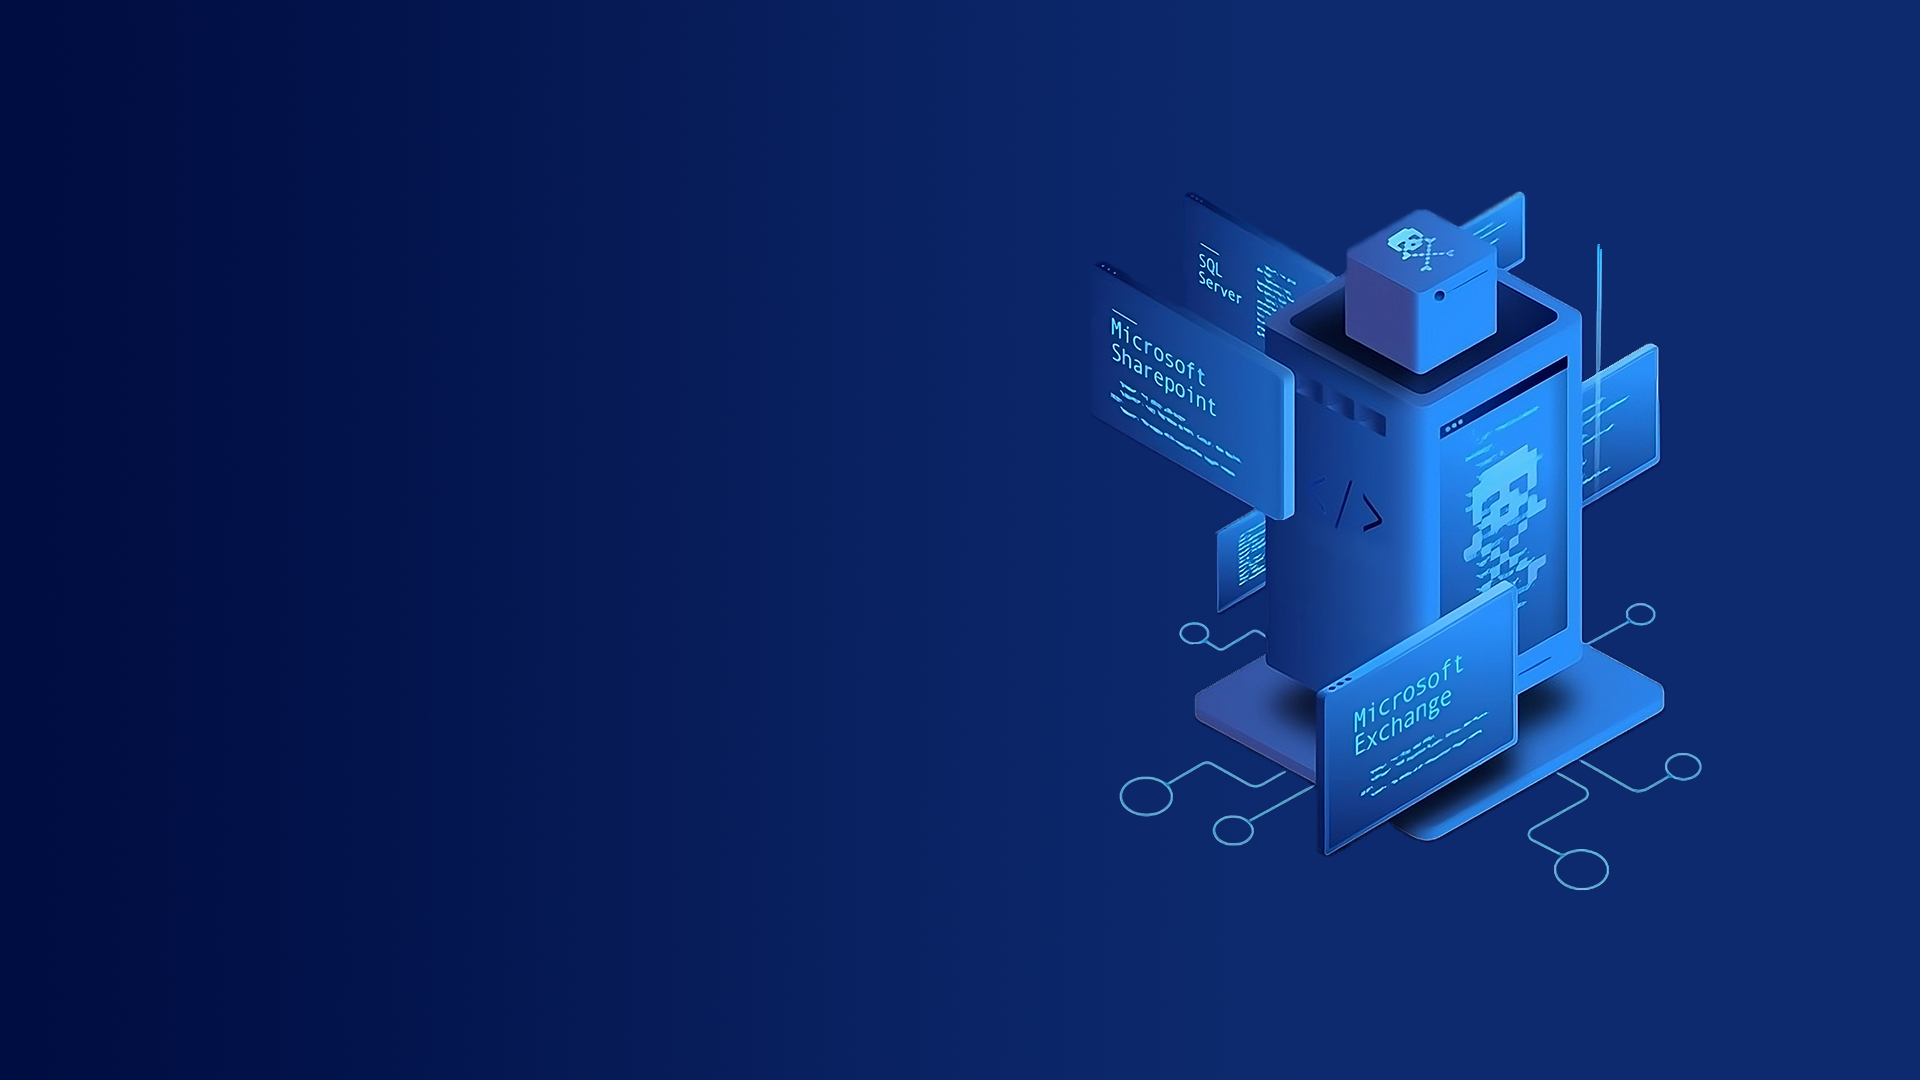
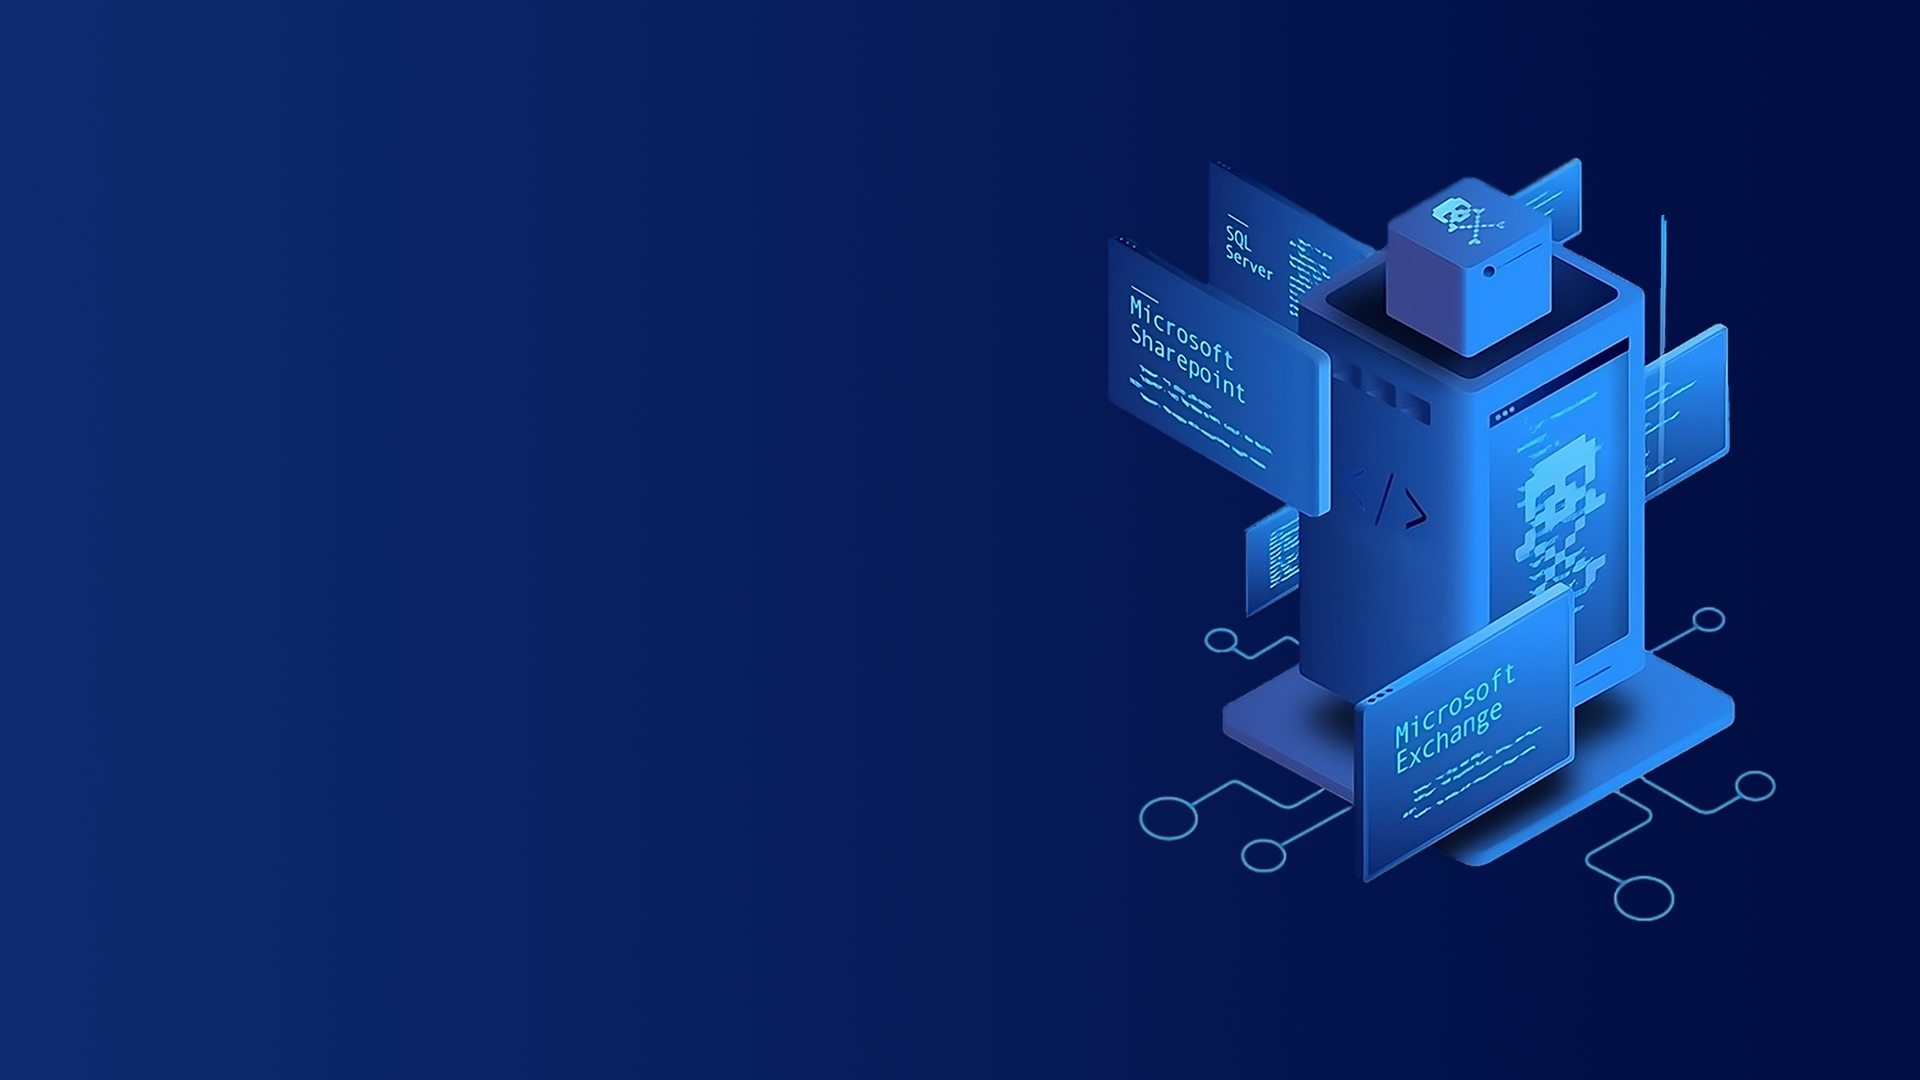
working on desktop version, creating new branch to try different hero page images

diff --git a/style.css b/style.css
@@ -59,6 +59,9 @@
     z-index: 9999;
 }
 
+.nav {
+    font-size: 0px;
+}
 
 .logo {
     font-size: 100px;
@@ -126,7 +129,7 @@
     }
 
 .main {
-    padding-top: 150px;
+    padding-top: 130px;
 }
 
 
@@ -163,10 +166,19 @@
 
 
     
-.page1__content img {
+.mobilepic {
     width: 100%;
     margin-inline: auto;
 }
+.desktoppic {
+    width: 0%;
+    margin-inline: auto;
+}
+
+
+
+
+
 
 .page1::after {
     content: "";
@@ -242,31 +254,6 @@
     background-color: var(--dark);
     z-index: -1;
 }
-
-
-
-
-
-
-
-
-
-
-
-
-
-
-
-
-
-
-
-
-
-
-
-
-
 
 
 
@@ -460,11 +447,136 @@ word-wrap: break-word;
 
 
 
+    /* DESKTOP SETTINGS */
+    @media only screen and (min-width: 1000px) {
+
+
+
+/* 
+/////////////////////////// TOP NAV BAR ///////////////////////////
+*/
+
+.header {
+    display: flex;
+    flex-direction: row;
+    align-items: left;
+    z-index: 9999;
+    padding-inline: 1rem;
+    justify-content: space-between;
+}
+
+.header a {
+    color: rgba(255, 255, 255, 0.534);
+    padding: 0rem .5rem;
+}
+
+.nav {
+    font-size: 30px;
+}
+
+.logo {
+    font-size: 50px;
+    font-weight: 600;
+    letter-spacing: -3px;
+    margin-inline: unset;
+}
+
+
+
+/* 
+/////////////////////////// MAIN & BODY ///////////////////////////
+*/
+
+body {
+    font-size: 40px;
+    min-width: 450px;
+}
+
+.main {
+padding-top:20px;
+}
+
+
+
+
+/* ALL PAGES */
+.page1,
+.page2,
+.page3 {
+
+}
+.page1__content,
+.page2__content,
+.page3__content,
+.page4__content {
+    padding: 5rem 3rem;
+}
 
 
 
 
 
+
+ /* Page 1 */
+
+.mobilepic { 
+    width: 0%;
+ }
+
+ .page1 {
+    background-image: url(/Pics/WebApp\ Background.png);
+    height: 110vh;
+    display: flex;
+    flex-direction: column;
+ }
+
+ .page1__item {
+    width: 40rem;
+    margin-left: 15rem;
+    margin-top: 7rem;
+ }
+
+ .page1::after {
+    content: "";
+    width: 0%;
+ }
+
+
+
+
+
+
+
+
+
+
+
+
+
+
+
+
+
+
+
+
+
+
+
+
+
+
+
+
+
+
+
+
+
+
+
+ 
+ }
 
 
 

diff --git a/index.html b/index.html
@@ -9,6 +9,14 @@
     <body>
         <header class="header">
                 <a href="#" class="logo">Cooksey</a>
+                <div class="nav">
+                    <ul class="nav__list">
+                        <a href="#page1">Home</a>
+                        <a href="#page2">Info</a>
+                        <a href="#page3">Connect</a>
+                        <a href="#page4">About Me</a>
+                    </ul>
+                </div>
         </header>
         <main class="main">
             <div class="page1" id="page1">
@@ -18,7 +26,8 @@
                         <p>Welcome to my corner of the web, where I leverage the power of Microsoft Azure to solve complex problems and scale innovative solutions. <!-- Explore how I combine my expertise in networking, Git, HTML, CSS, and more to transform ideas into reality. --></p>
                     </div>
                     <div class="page1__item">
-                        <img src="/Pics/azure.png">
+                        <img class="mobilepic" src="/Pics/azure.png">
+                        <img class="desktoppic"src="/Pics/WebApp Background.png">
                     </div>
                 </div>
             </div>
